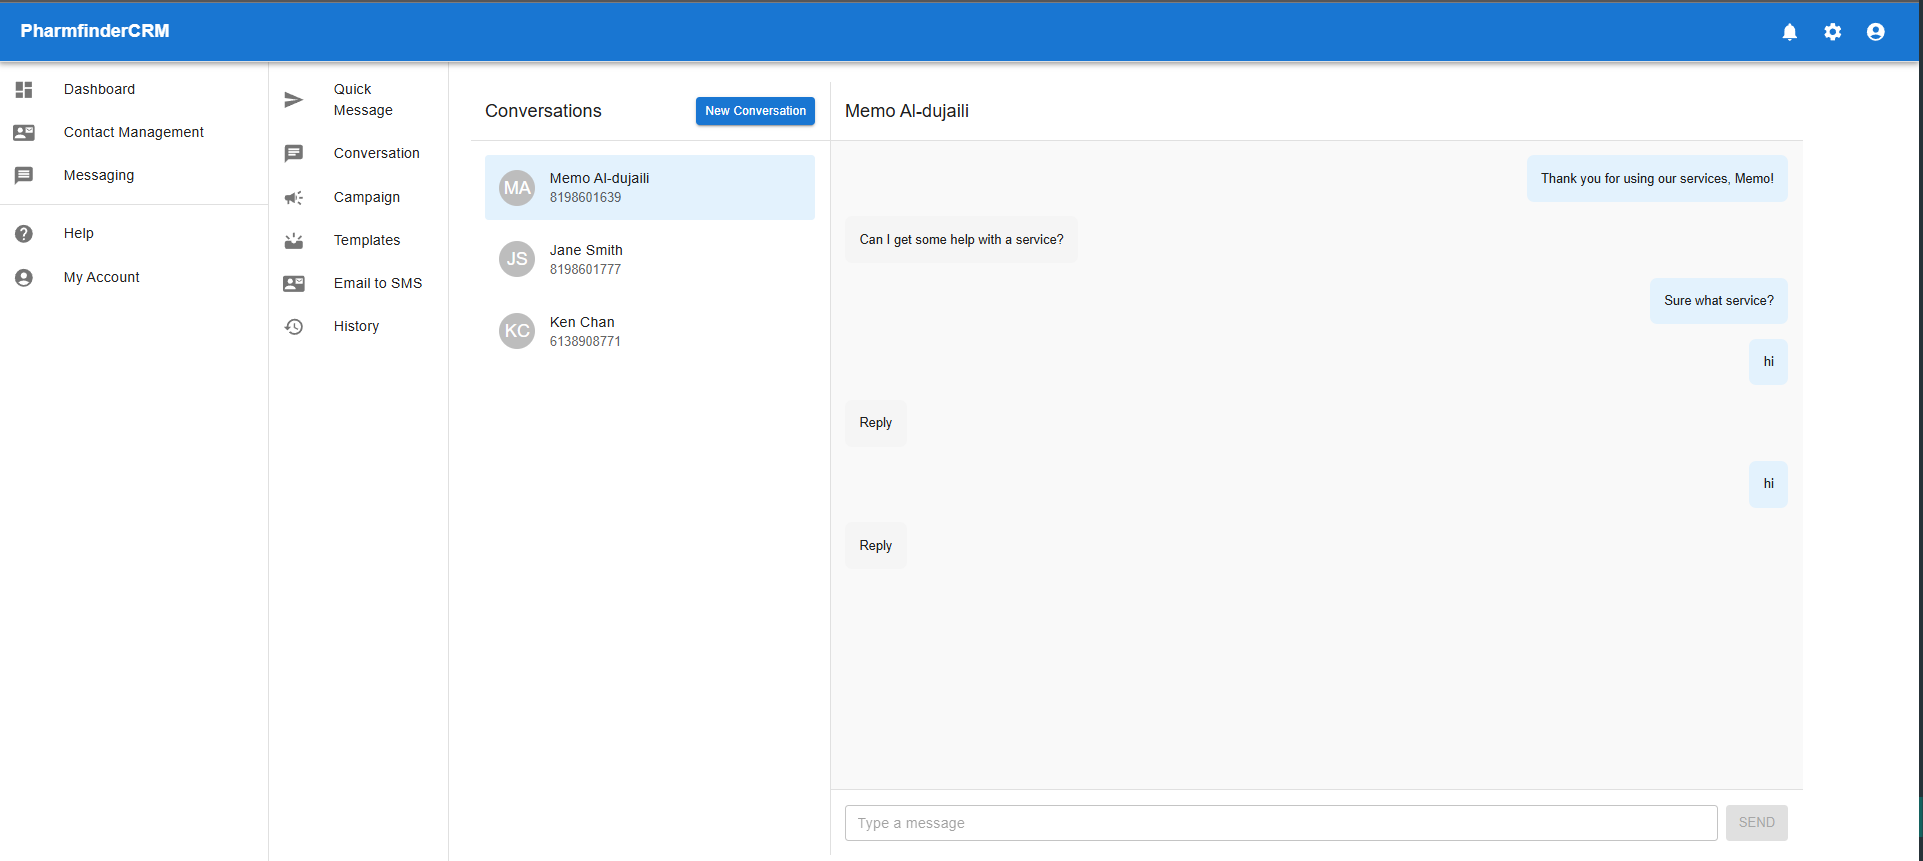
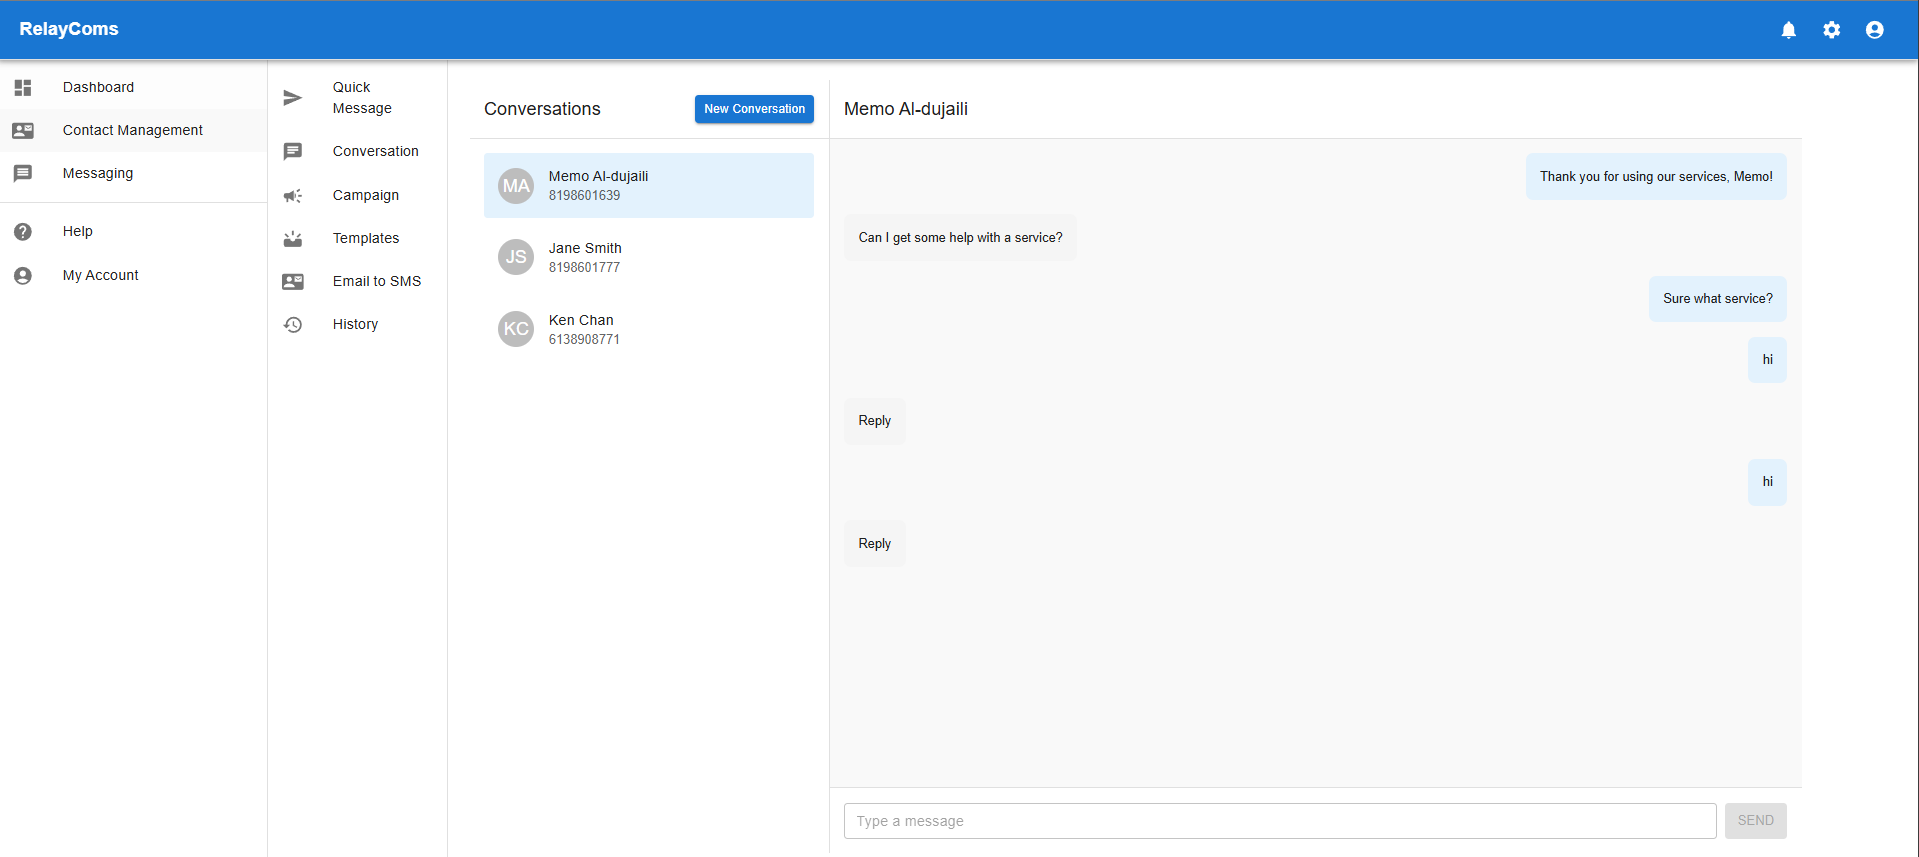
Updated Landing Page and App Name

diff --git a/src/pages/LandingPage.tsx b/src/pages/LandingPage.tsx
@@ -3,10 +3,10 @@ import { Link } from 'react-router-dom'
 
 const heroBg = '/hero-image.jpg'
 
-const featureIcons = {
-  analytics: 'https://img.icons8.com/fluency/96/customer-insight.png',
-  messaging: 'https://img.icons8.com/fluency/96/sms.png',
-  teamwork: 'https://img.icons8.com/fluency/96/conference-background-selected.png'
+const featureImages = {
+  messaging: '/message-image.png',
+  conversation: '/convo-image.png',
+  tracking: '/history-image.png'
 }
 
 export default function LandingPage (): JSX.Element {
@@ -14,7 +14,7 @@ export default function LandingPage (): JSX.Element {
     <div className="w-full flex flex-col">
       {/* Hero Section */}
       <section
-        className="relative w-full flex flex-col items-center justify-center text-white h-[70vh]"
+        className="relative w-full flex flex-col items-center justify-center text-white h-[85vh]"
         style={{
           background: `linear-gradient(to right, rgba(0,0,0,0.7), rgba(0,0,0,0.3)), url(${heroBg})`,
           backgroundPosition: 'center',
@@ -23,138 +23,104 @@ export default function LandingPage (): JSX.Element {
         }}
       >
         <div className="max-w-7xl mx-auto px-6 text-center">
-          <h1 className="text-5xl md:text-6xl font-bold mb-6 leading-tight">
+          <h1 className="text-6xl md:text-7xl font-bold mb-8 leading-tight">
             The Future of Customer Engagement
           </h1>
-          <p className="text-lg md:text-xl mb-8 max-w-3xl mx-auto text-gray-300">
-            Manage your customer communications across SMS, Email, Post, and Voice—all from one intuitive platform.
+          <p className="text-xl md:text-2xl mb-10 max-w-4xl mx-auto text-gray-300">
+            Manage your customer communications across SMS, MMS, and Conversation from one platform.
           </p>
-          <div className="flex flex-col md:flex-row justify-center gap-4">
+          <div className="flex flex-col md:flex-row justify-center gap-6">
             <Link
-              to="/signup"
-              className="bg-pink-600 text-white font-bold px-8 py-3 rounded-full shadow-lg hover:bg-pink-700 transition"
+              to="/app/dashboard"
+              className="bg-pink-600 text-white font-bold px-10 py-4 rounded-full shadow-lg text-lg hover:bg-pink-700 transition"
             >
-              Get Started Free
-            </Link>
-            <Link
-              to="app/dashboard"
-              className="bg-gray-200 text-gray-900 font-semibold px-8 py-3 rounded-full hover:bg-gray-300 transition"
-            >
-              Login
+              Access App
             </Link>
           </div>
         </div>
       </section>
 
-      {/* Features Section */}
+      {/* Messaging Section */}
       <section className="bg-white py-16 px-6">
-        <div className="max-w-5xl mx-auto text-center">
-          <h2 className="text-4xl font-bold mb-10">
-            Simplify Your Communication Process
-          </h2>
-          <p className="text-gray-600 mb-12">
-            PharmFinder CRM is a powerful platform that lets you engage your customers across multiple channels with ease. Here’s how it can help you streamline your communications:
-          </p>
-
-          <div className="grid grid-cols-1 md:grid-cols-3 gap-12">
-            {/* Feature #1 */}
-            <div className="bg-gray-50 p-8 rounded-lg shadow hover:shadow-lg transition">
-              <img src={featureIcons.analytics} alt="Analytics" className="mx-auto mb-4 h-20" />
-              <h3 className="text-xl font-semibold mb-4">Powerful Analytics</h3>
-              <p className="text-gray-600">
-                Gain real-time insights to track your messaging campaigns and optimize performance.
-              </p>
-            </div>
-
-            {/* Feature #2 */}
-            <div className="bg-gray-50 p-8 rounded-lg shadow hover:shadow-lg transition">
-              <img src={featureIcons.messaging} alt="Messaging" className="mx-auto mb-4 h-20" />
-              <h3 className="text-xl font-semibold mb-4">Omnichannel Messaging</h3>
-              <p className="text-gray-600">
-                Send SMS, Emails, and Voice messages from one platform and reach your customers where they are.
-              </p>
-            </div>
-
-            {/* Feature #3 */}
-            <div className="bg-gray-50 p-8 rounded-lg shadow hover:shadow-lg transition">
-              <img src={featureIcons.teamwork} alt="Team Collaboration" className="mx-auto mb-4 h-20" />
-              <h3 className="text-xl font-semibold mb-4">Team Collaboration</h3>
-              <p className="text-gray-600">
-                Manage roles, permissions, and workflows to empower your entire team to work together efficiently.
-              </p>
-            </div>
-          </div>
-        </div>
-      </section>
-
-      {/* How it Works Section */}
-      <section className="bg-gradient-to-r from-pink-50 to-orange-50 py-16 px-6">
-        <div className="max-w-5xl mx-auto grid grid-cols-1 md:grid-cols-2 gap-12 items-center">
+        <div className="max-w-6xl mx-auto grid grid-cols-1 md:grid-cols-2 items-center gap-12">
+          <img src={featureImages.messaging} alt="Messaging Feature" className="rounded-lg shadow-lg" />
           <div>
-            <h2 className="text-3xl font-bold mb-6">How It Works</h2>
-            <p className="text-gray-700 mb-6">
-              Get started with PharmFinder CRM in just a few simple steps:
+            <h2 className="text-4xl font-bold mb-6">Messaging (SMS/MMS)</h2>
+            <p className="text-gray-600 mb-4">
+              Engage your audience via SMS and MMS messages with ease. Our platform supports personalized messages,
+              multimedia content, and automated workflows to ensure your communication reaches the right people at the right
+              time.
             </p>
             <ul className="list-disc list-inside text-gray-600 mb-6">
-              <li>Create or import your contact lists</li>
-              <li>Draft your SMS or email campaigns</li>
-              <li>Track delivery status and customer engagement</li>
-              <li>Analyze results and optimize your strategy</li>
+              <li>Send SMS and MMS messages to your customers</li>
+              <li>Support for multimedia attachments (images, videos)</li>
+              <li>Create reusable message templates for quick communication</li>
             </ul>
-            <Link
-              to="/signup"
-              className="inline-block bg-pink-600 text-white px-6 py-3 rounded-md font-semibold hover:bg-pink-700 transition"
-            >
-              Start Now
-            </Link>
           </div>
-          <img
-            src="/convo-image.png"
-            alt="Product Dashboard"
-            className="rounded-lg shadow-lg"
-          />
         </div>
       </section>
 
+      {/* Conversation Tracking Section */}
+      <section className="bg-gradient-to-r from-gray-50 to-white py-16 px-6">
+        <div className="max-w-6xl mx-auto grid grid-cols-1 md:grid-cols-2 items-center gap-12">
+          <div>
+            <h2 className="text-4xl font-bold mb-6">Contacts & Conversation</h2>
+            <p className="text-gray-600 mb-4">
+              Stay on top of your customer interactions with our conversation tracking feature. Easily manage ongoing
+              conversations, view message history, and ensure no message goes unanswered.
+            </p>
+            <ul className="list-disc list-inside text-gray-600 mb-6">
+              <li>Track all incoming and outgoing messages</li>
+              <li>View complete message history for each contact</li>
+              <li>Organize and manage your contact lists efficiently</li>
+            </ul>
+          </div>
+          <img src={featureImages.conversation} alt="Conversation Tracking" className="rounded-lg shadow-lg" />
+        </div>
+      </section>
+
+      {/* Message Tracking Section */}
+      <section className="bg-white py-16 px-6">
+        <div className="max-w-6xl mx-auto grid grid-cols-1 md:grid-cols-2 items-center gap-12">
+          <img src={featureImages.tracking} alt="Message Tracking" className="rounded-lg shadow-lg" />
+          <div>
+            <h2 className="text-4xl font-bold mb-6">Message Tracking</h2>
+            <p className="text-gray-600 mb-4">
+              Monitor the status of your messages in real-time. Our message tracking feature provides delivery reports, read
+              receipts, and analytics to help you optimize your communication strategy.
+            </p>
+            <ul className="list-disc list-inside text-gray-600 mb-6">
+              <li>Real-time delivery reports</li>
+              <li>Read receipts and open tracking</li>
+              <li>Send bulk SMS/MMS campaigns and track performance</li>
+            </ul>
+          </div>
+        </div>
+      </section>
       {/* Quick Sign-Up CTA */}
-      <section className="bg-white py-12 px-6">
+      <section className="bg-gradient-to-r from-pink-50 to-orange-50 py-12 px-6">
         <div className="max-w-4xl mx-auto text-center">
-          <h2 className="text-3xl font-bold mb-6">Ready to Get Started?</h2>
+          <h2 className="text-4xl font-bold mb-6">Ready to Get Started?</h2>
           <p className="text-gray-600 mb-8">
-            No upfront fees, no lock-ins. Get started for free and only pay for what you use.
+            Access our platform through Azure Active Directory and start managing your customer communications today.
           </p>
-          <form className="flex flex-col md:flex-row items-center justify-center gap-4">
-            <input
-              type="text"
-              placeholder="Name"
-              className="border border-gray-300 focus:ring-pink-600 rounded-md px-4 py-2 w-full md:w-1/3"
-            />
-            <input
-              type="email"
-              placeholder="Email"
-              className="border border-gray-300 focus:ring-pink-600 rounded-md px-4 py-2 w-full md:w-1/3"
-            />
-            <button
-              type="submit"
-              className="bg-pink-600 text-white px-6 py-2 rounded-md font-semibold hover:bg-pink-700 transition"
+          <div className="flex justify-center gap-4">
+            <Link
+              to="/app/dashboard"
+              className="bg-pink-600 text-white font-bold px-8 py-4 rounded-full shadow-lg text-lg hover:bg-pink-700 transition"
             >
-              Sign Up Free
-            </button>
-          </form>
+              Access App
+            </Link>
+          </div>
           <p className="text-gray-600 text-sm mt-4">
-            Already have an account?{' '}
-            <Link to="app/dashboard" className="text-pink-600 hover:underline">
-              Login here
-            </Link>.
+            New to our platform? We are working on enabling user registration soon.
           </p>
         </div>
       </section>
 
       {/* Footer */}
       <footer className="bg-gray-800 text-gray-200 py-6 text-center">
-        <p className="text-sm">
-          © {new Date().getFullYear()} PharmFinder CRM. All rights reserved.
-        </p>
+        <p className="text-sm">© {new Date().getFullYear()} RelayCom BCS. All rights reserved.</p>
       </footer>
     </div>
   )

diff --git a/src/pages/AuthCallback.tsx b/src/pages/AuthCallback.tsx
@@ -6,7 +6,7 @@ const AuthCallback = (): JSX.Element => {
   const navigate = useNavigate()
 
   useEffect(() => {
-    navigate('/dashboard', { replace: true })
+    navigate('/app/dashboard', { replace: true })
   }, [navigate])
 
   return <Loading message={'Authenticating...'} description={'Please wait while we verify your credentials. 😊'}/>

diff --git a/src/components/Layout.tsx b/src/components/Layout.tsx
@@ -63,7 +63,7 @@ export default function Layout (): JSX.Element {
     >
       <Toolbar sx={{ justifyContent: 'space-between' }}>
         <Typography variant="h6" noWrap component="div" sx={{ fontWeight: 'bold' }}>
-          PharmfinderCRM
+          RelayComs
         </Typography>
         {/* Right Icons */}
         <Box>

diff --git a/README.md b/README.md
@@ -1,7 +1,7 @@
 # capstone-2024-frontend.
 
 ## Overview
-The Pharmacy Messaging Service Frontend is a modern web application built with TypeScript, React, and Material UI. It interfaces with the Pharmacy Messaging Service backend, providing an UI for managing messages, conversations, and contacts. It serves as a key component for DPR Group, facilitating seamless communication between pharmacies and their customers.
+The RelayCom Messaging Service Frontend is a modern web application built with TypeScript, React, and Material UI. It interfaces with the Messaging Service backend, providing an UI for managing messages, conversations, and contacts. It serves as a key component for client and their customers.
 
 ## Test User Creds:
 user1@mimoaldujailigmail.onmicrosoft.com
@@ -40,7 +40,7 @@ Each layer is designed to ensure maintainability and extensibility.
 
 ## Requirements
 - **npm or Yarn**: For dependency management.
-- **Backend API**: Running instance of the Pharmacy Messaging Service backend.
+- **Backend API**: Running instance of the Messaging Service backend.
 - **Environment Variables**: API base URL and other configurations.
 
 ---
